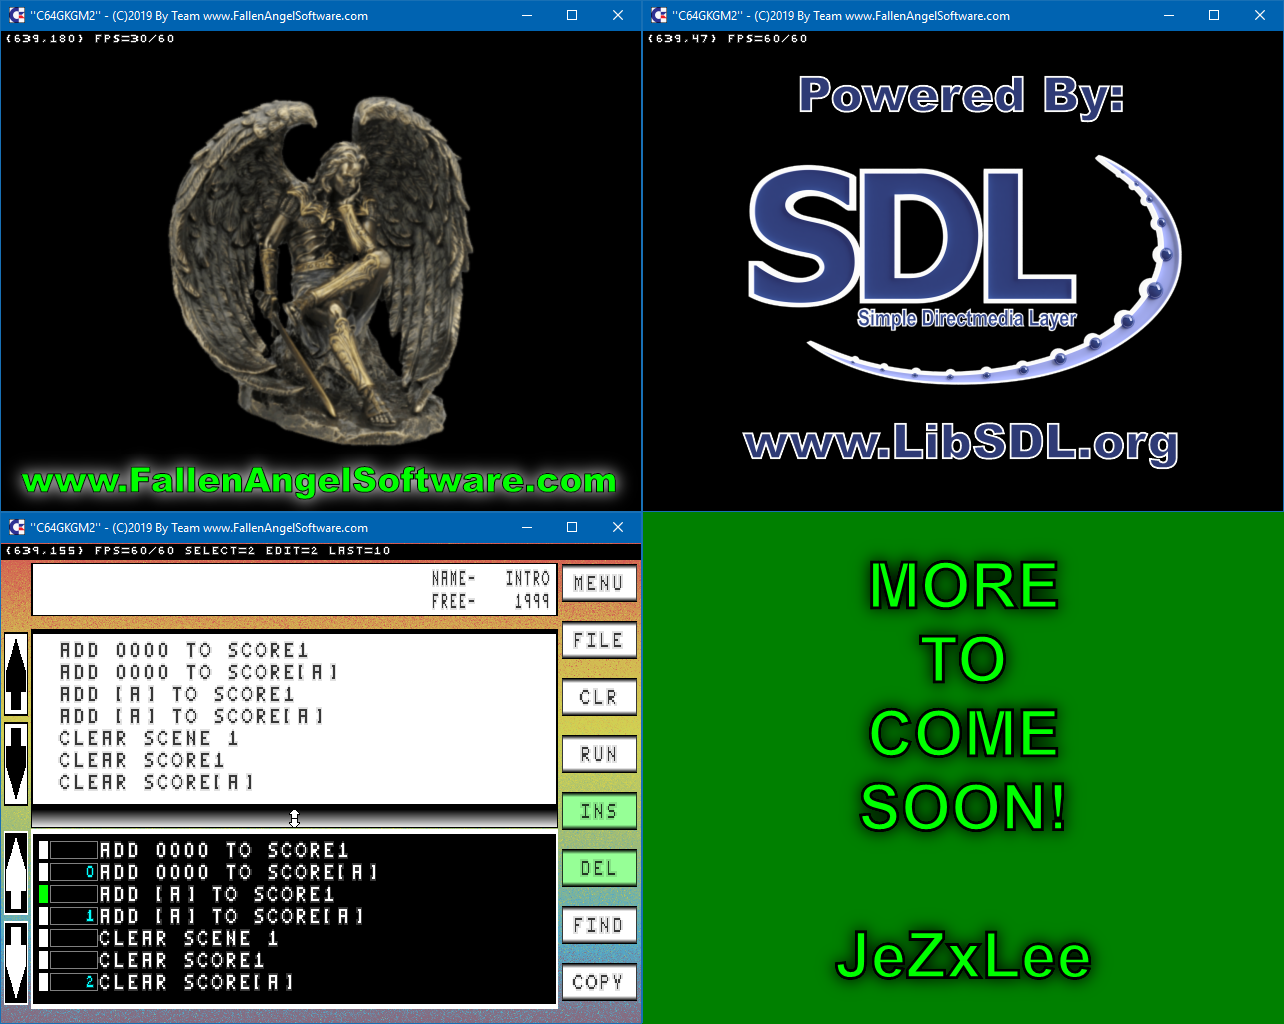
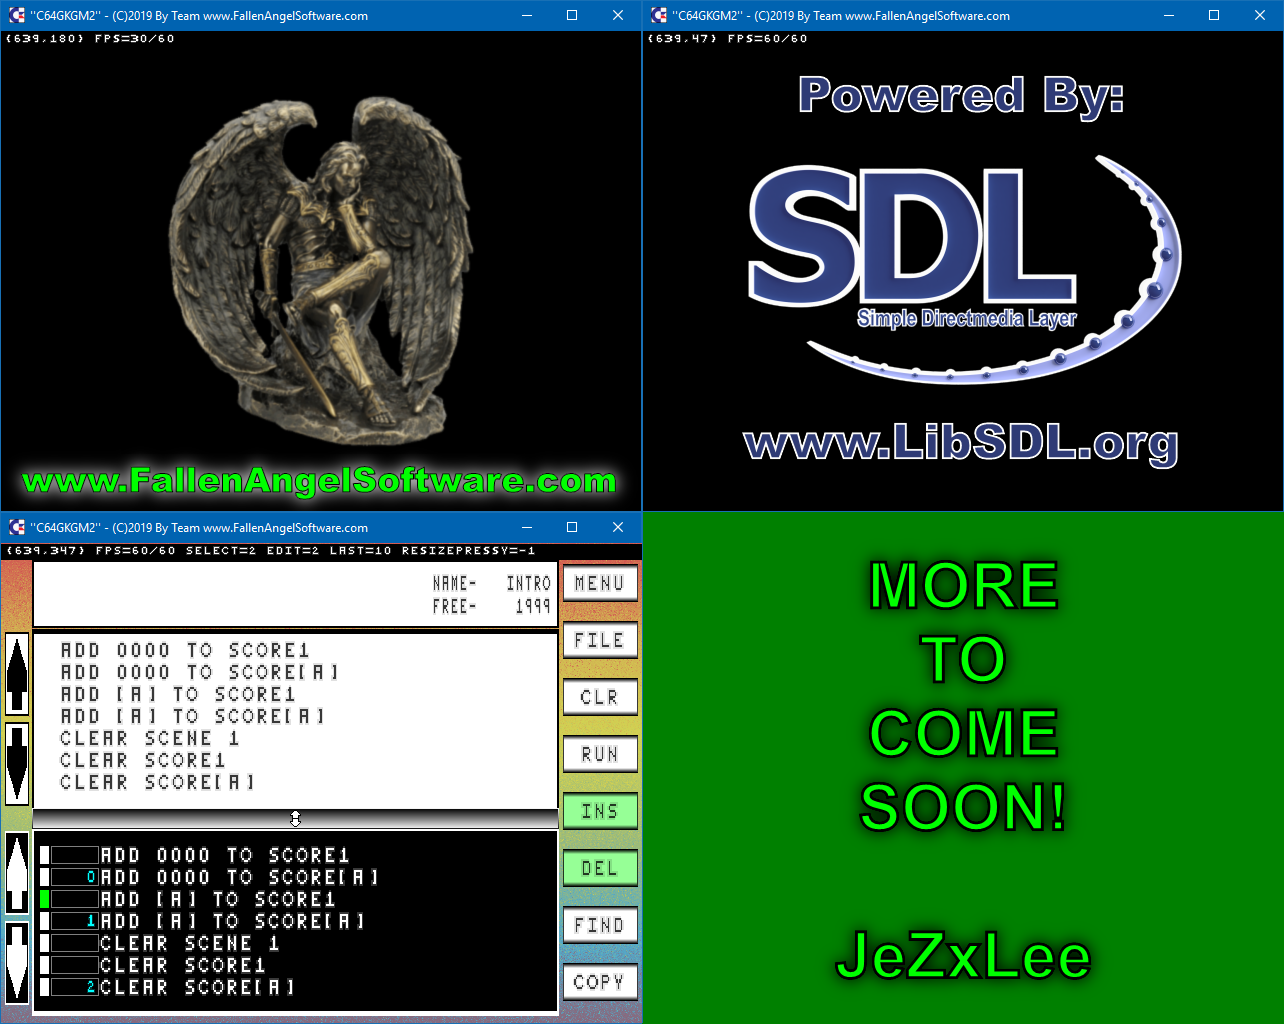
0.0.0.33

Changed region(s): [[0.0, 0.5312, 0.4984, 1.0], [0.4361, 0.7188, 0.4984, 0.75]]

diff --git a/src/screens.cpp b/src/screens.cpp
@@ -626,9 +626,9 @@ void Screens::DisplayCodeEditor_Screen(void)
         visuals->DrawSpriteOntoScreenBuffer(100);
 
         visuals->Sprites[1249].ScreenX = 320-26;
-        visuals->Sprites[1249].ScreenY = 47;
+        visuals->Sprites[1249].ScreenY = 47+5;
         visuals->Sprites[1249].ScaleX = 2.1;
-        visuals->Sprites[1249].ScaleY = 1.4;
+        visuals->Sprites[1249].ScaleY = 1.8;
         visuals->DrawSpriteOntoScreenBuffer(1249);
 
         visuals->Sprites[1250].ScreenX = 320-26;
@@ -638,11 +638,11 @@ void Screens::DisplayCodeEditor_Screen(void)
         visuals->Sprites[1250].VerticalJustification = VertJustTop;
         visuals->DrawSpriteOntoScreenBuffer(1250);
 
-visuals->DrawSentenceOntoScreenBuffer(1, "NAME-", 435, 35, JustifyLeft, 255, 255, 255, 255, 1.0, 2.0);
-visuals->DrawSentenceOntoScreenBuffer(1, "INTRO", 640-95, 35, JustifyRight, 255, 255, 255, 255, 1.0, 2.0);
+visuals->DrawSentenceOntoScreenBuffer(1, "NAME-", 435, 40, JustifyLeft, 255, 255, 255, 255, 1.0, 2.0);
+visuals->DrawSentenceOntoScreenBuffer(1, "INTRO", 640-95, 40, JustifyRight, 255, 255, 255, 255, 1.0, 2.0);
 
-visuals->DrawSentenceOntoScreenBuffer(1, "FREE-", 435, 35+23, JustifyLeft, 255, 255, 255, 255, 1.0, 2.0);
-visuals->DrawSentenceOntoScreenBuffer(1, "1999", 640-95, 35+23, JustifyRight, 255, 255, 255, 255, 1.0, 2.0);
+visuals->DrawSentenceOntoScreenBuffer(1, "FREE-", 435, 40+23, JustifyLeft, 255, 255, 255, 255, 1.0, 2.0);
+visuals->DrawSentenceOntoScreenBuffer(1, "1999", 640-95, 40+23, JustifyRight, 255, 255, 255, 255, 1.0, 2.0);
 
 int commandScreenY = 107;
 int commandOffsetY = 32-10;
